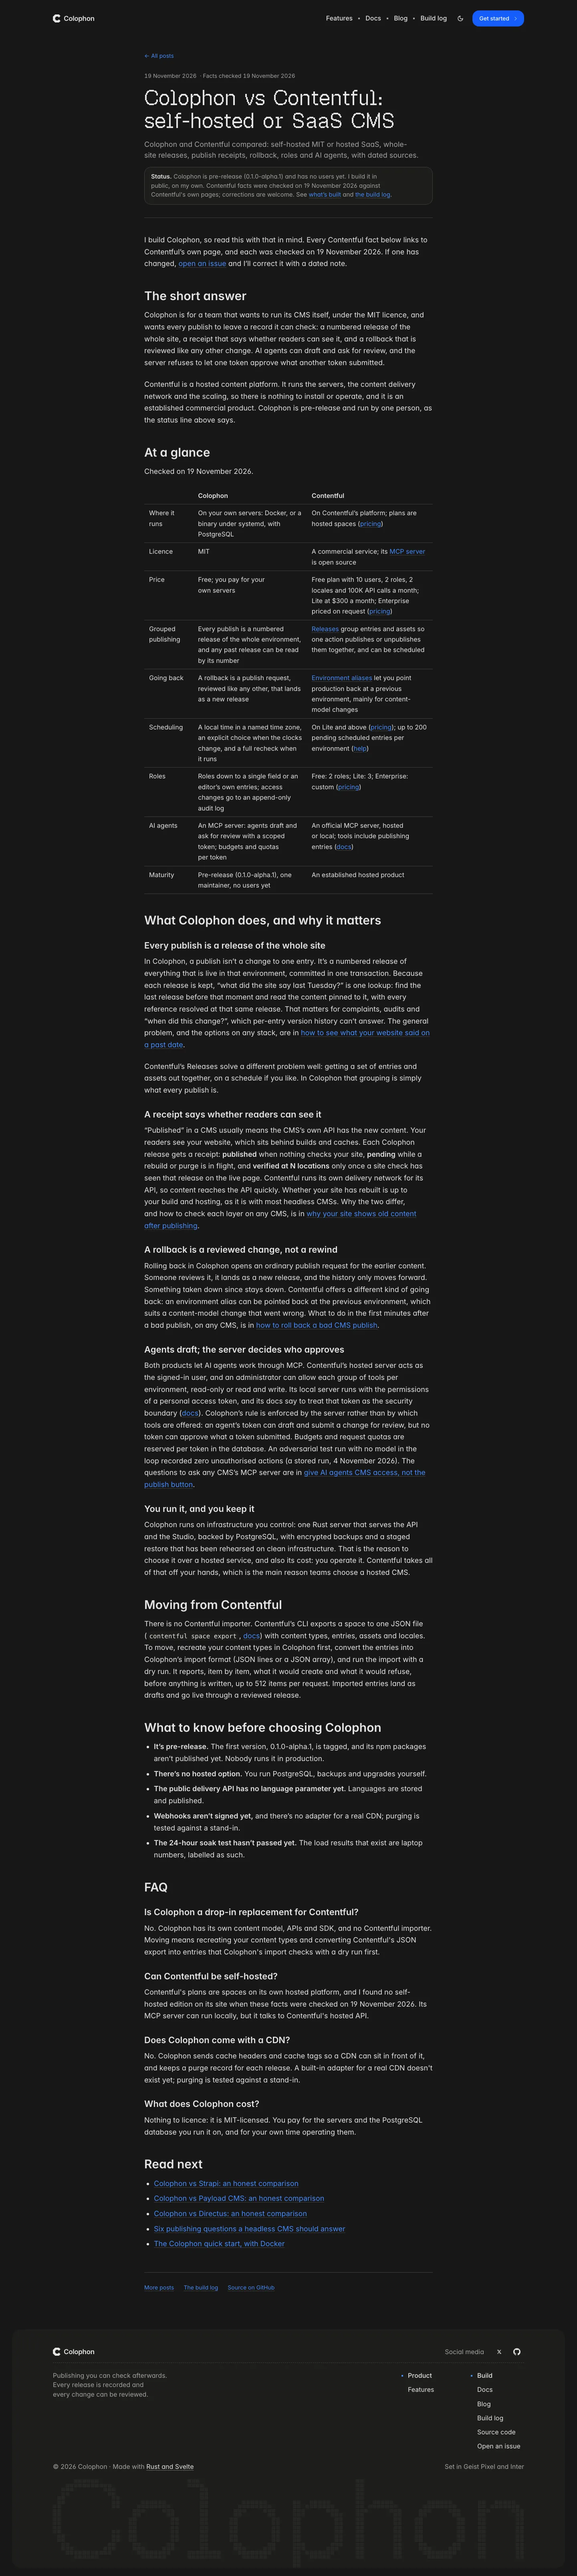
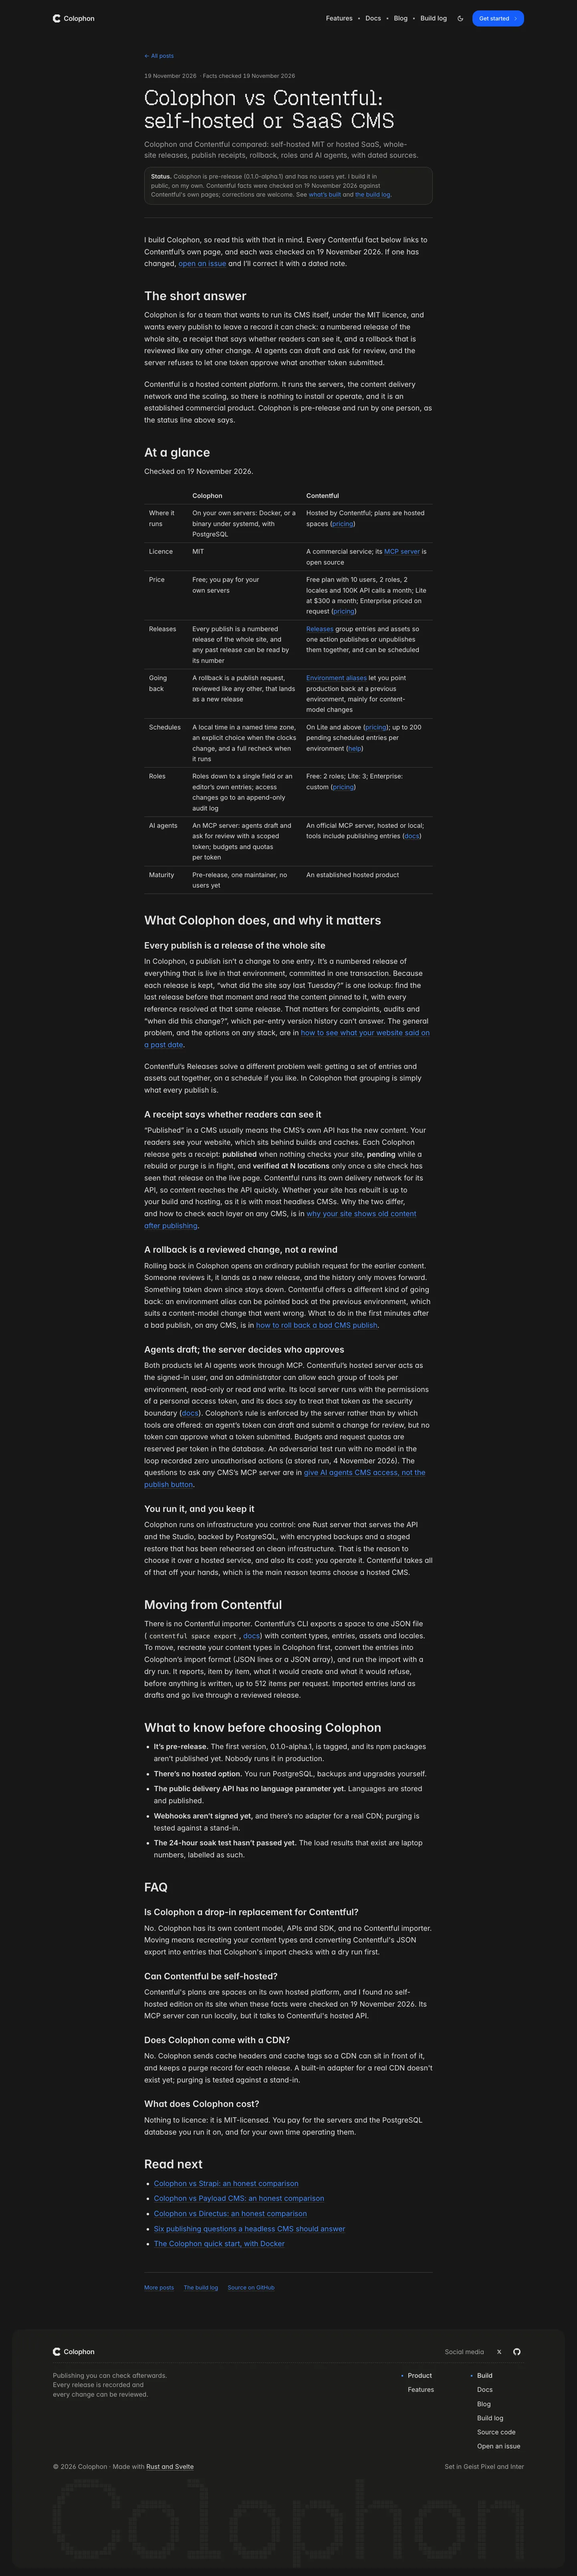
Comparisons fit a 360px phone: the budget gate checks every page at 390 and 360 for sideways scroll and tables wider than their box; Contentful's table loses 18px (shorter row labels, no version string)

Changed region(s): [[0.5312, 0.1869, 0.7188, 0.3427], [0.3438, 0.1869, 0.5, 0.3427]]

diff --git a/src/content/pages/colophon-vs-contentful.md b/src/content/pages/colophon-vs-contentful.md
@@ -49,15 +49,15 @@ Checked on 19 November 2026.
 
 | | Colophon | Contentful |
 |---|---|---|
-| Where it runs | On your own servers: Docker, or a binary under systemd, with PostgreSQL | On Contentful's platform; plans are hosted spaces ([pricing](https://www.contentful.com/pricing/)) |
+| Where it runs | On your own servers: Docker, or a binary under systemd, with PostgreSQL | Hosted by Contentful; plans are hosted spaces ([pricing](https://www.contentful.com/pricing/)) |
 | Licence | MIT | A commercial service; its [MCP server](https://www.contentful.com/developers/docs/tools/mcp-server/) is open source |
 | Price | Free; you pay for your own servers | Free plan with 10 users, 2 roles, 2 locales and 100K API calls a month; Lite at $300 a month; Enterprise priced on request ([pricing](https://www.contentful.com/pricing/)) |
-| Grouped publishing | Every publish is a numbered release of the whole environment, and any past release can be read by its number | [Releases](https://www.contentful.com/help/content-releases-eap/) group entries and assets so one action publishes or unpublishes them together, and can be scheduled |
+| Releases | Every publish is a numbered release of the whole site, and any past release can be read by its number | [Releases](https://www.contentful.com/help/content-releases-eap/) group entries and assets so one action publishes or unpublishes them together, and can be scheduled |
 | Going back | A rollback is a publish request, reviewed like any other, that lands as a new release | [Environment aliases](https://www.contentful.com/developers/docs/tutorials/general/deploying-changes-with-environment-aliases/) let you point production back at a previous environment, mainly for content-model changes |
-| Scheduling | A local time in a named time zone, an explicit choice when the clocks change, and a full recheck when it runs | On Lite and above ([pricing](https://www.contentful.com/pricing/)); up to 200 pending scheduled entries per environment ([help](https://www.contentful.com/help/scheduled-publishing/)) |
+| Schedules | A local time in a named time zone, an explicit choice when the clocks change, and a full recheck when it runs | On Lite and above ([pricing](https://www.contentful.com/pricing/)); up to 200 pending scheduled entries per environment ([help](https://www.contentful.com/help/scheduled-publishing/)) |
 | Roles | Roles down to a single field or an editor's own entries; access changes go to an append-only audit log | Free: 2 roles; Lite: 3; Enterprise: custom ([pricing](https://www.contentful.com/pricing/)) |
 | AI agents | An MCP server: agents draft and ask for review with a scoped token; budgets and quotas per token | An official MCP server, hosted or local; tools include publishing entries ([docs](https://www.contentful.com/developers/docs/tools/mcp-server/)) |
-| Maturity | Pre-release (0.1.0-alpha.1), one maintainer, no users yet | An established hosted product |
+| Maturity | Pre-release, one maintainer, no users yet | An established hosted product |
 
 ## What Colophon does, and why it matters
 
